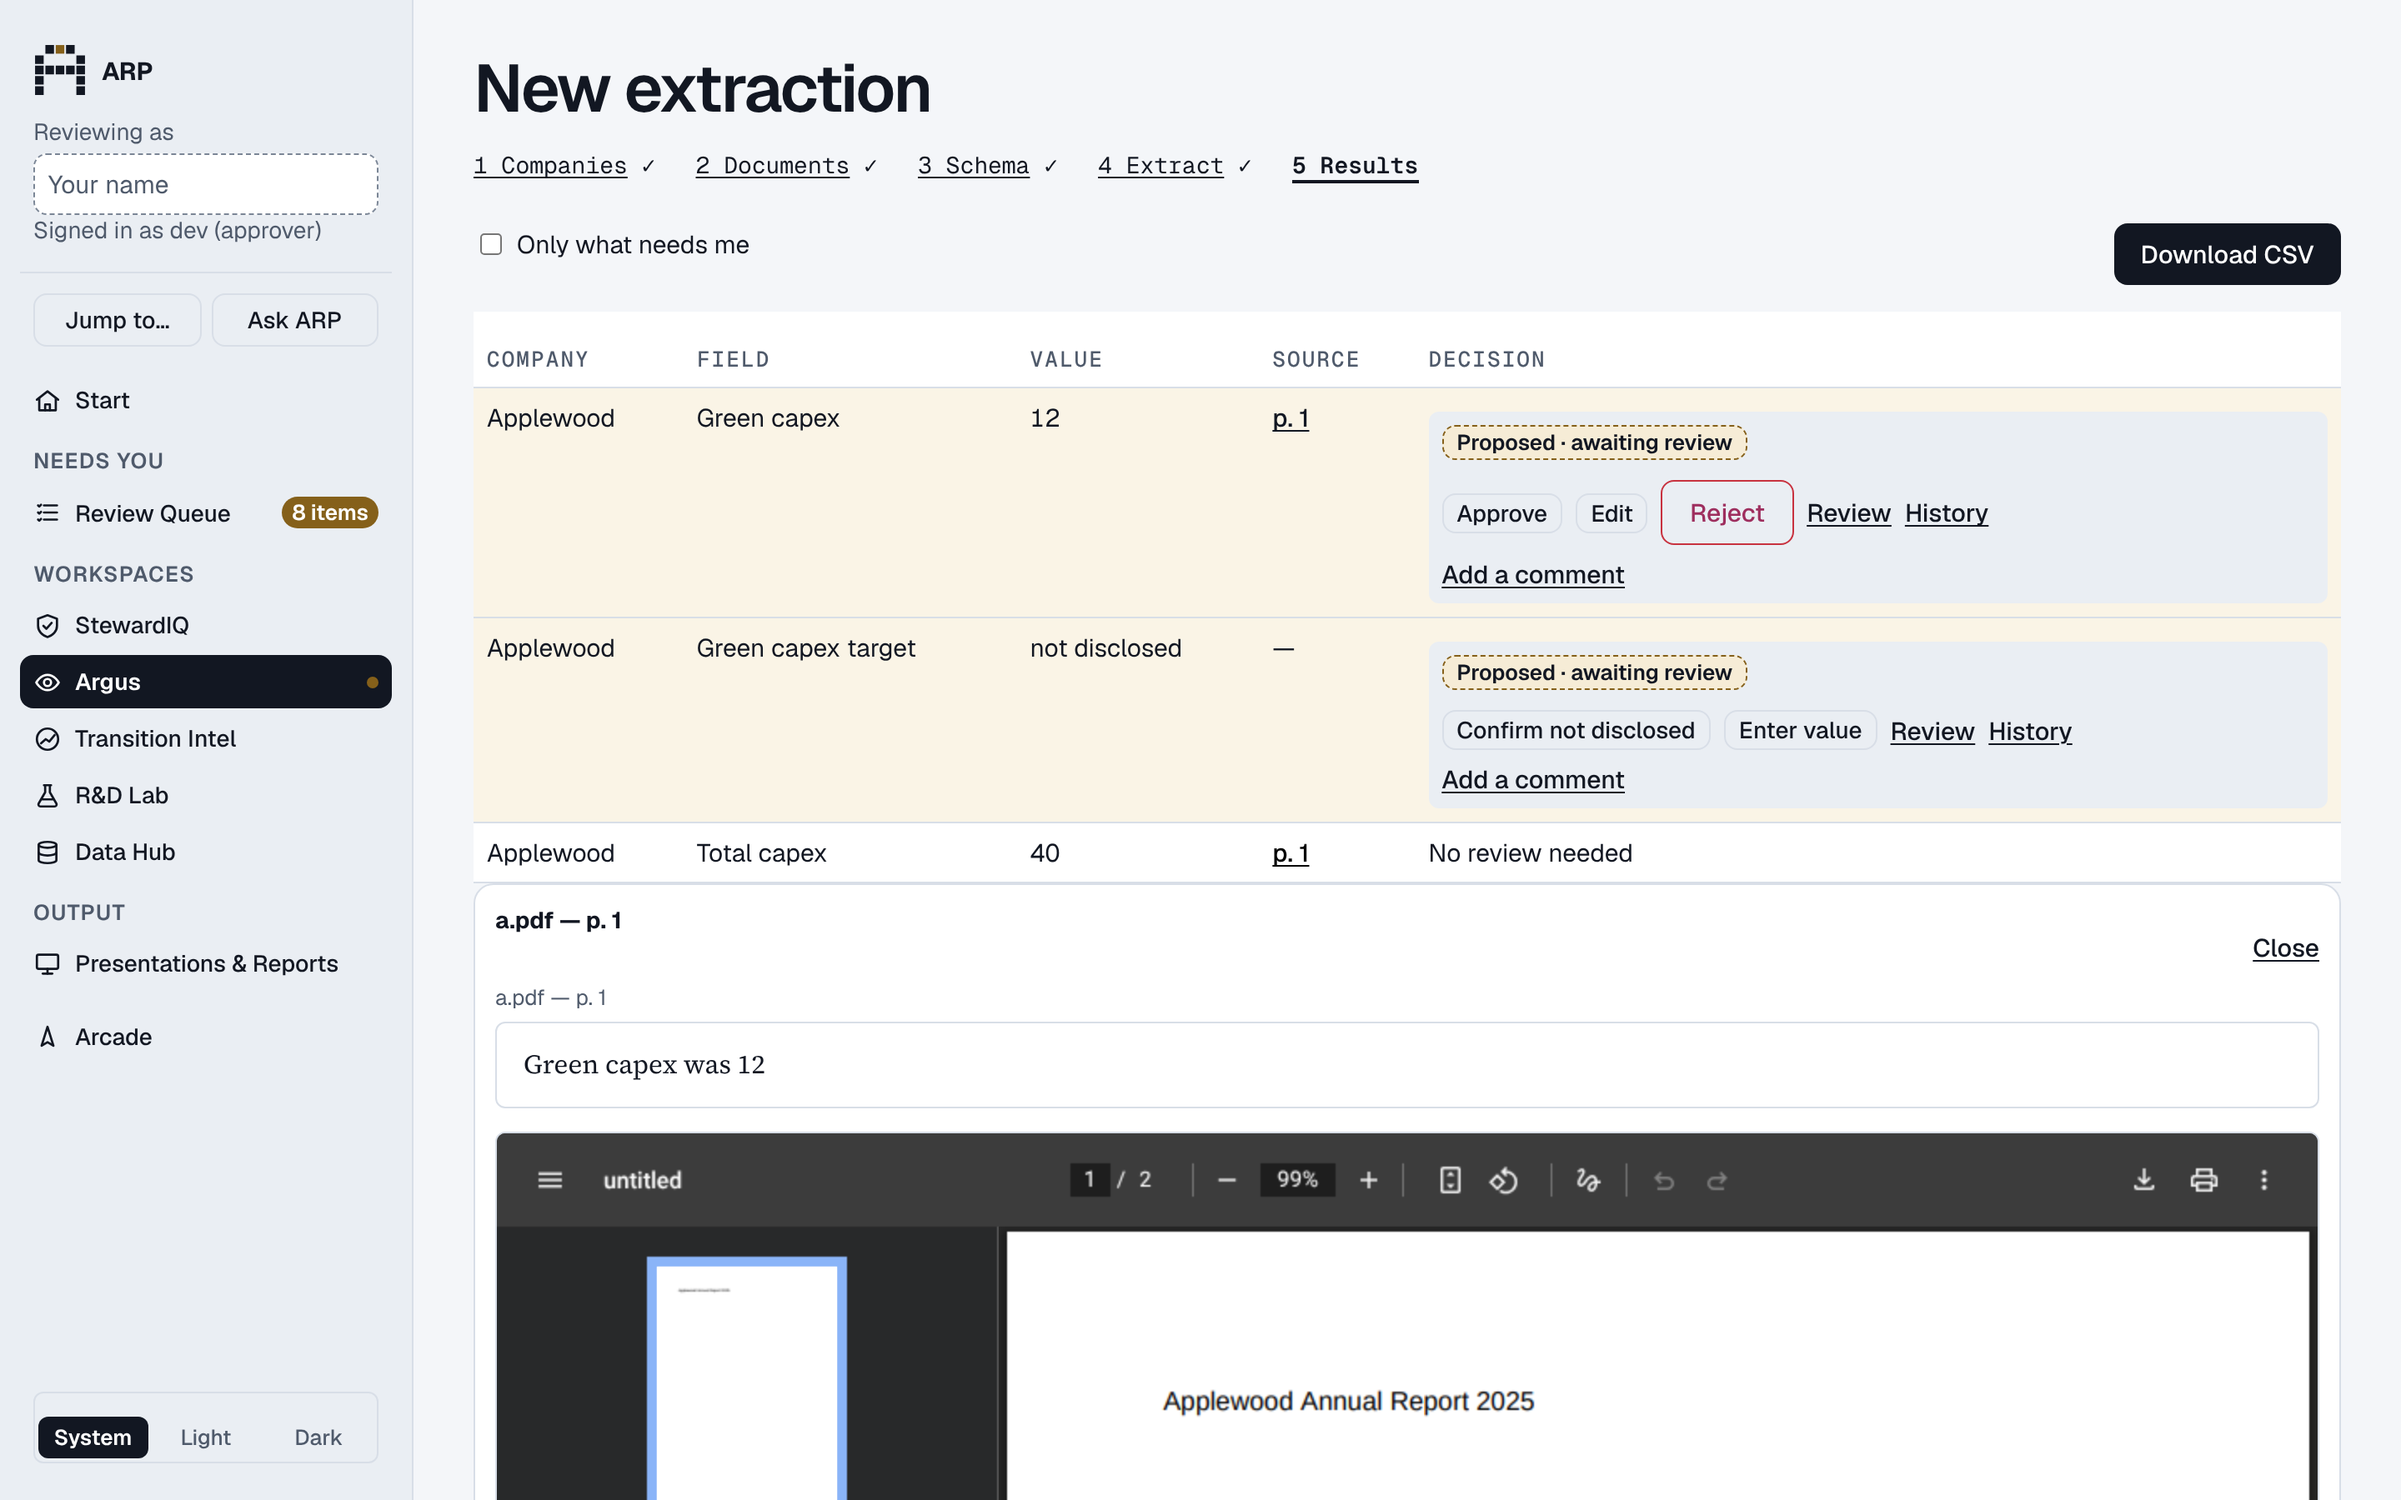
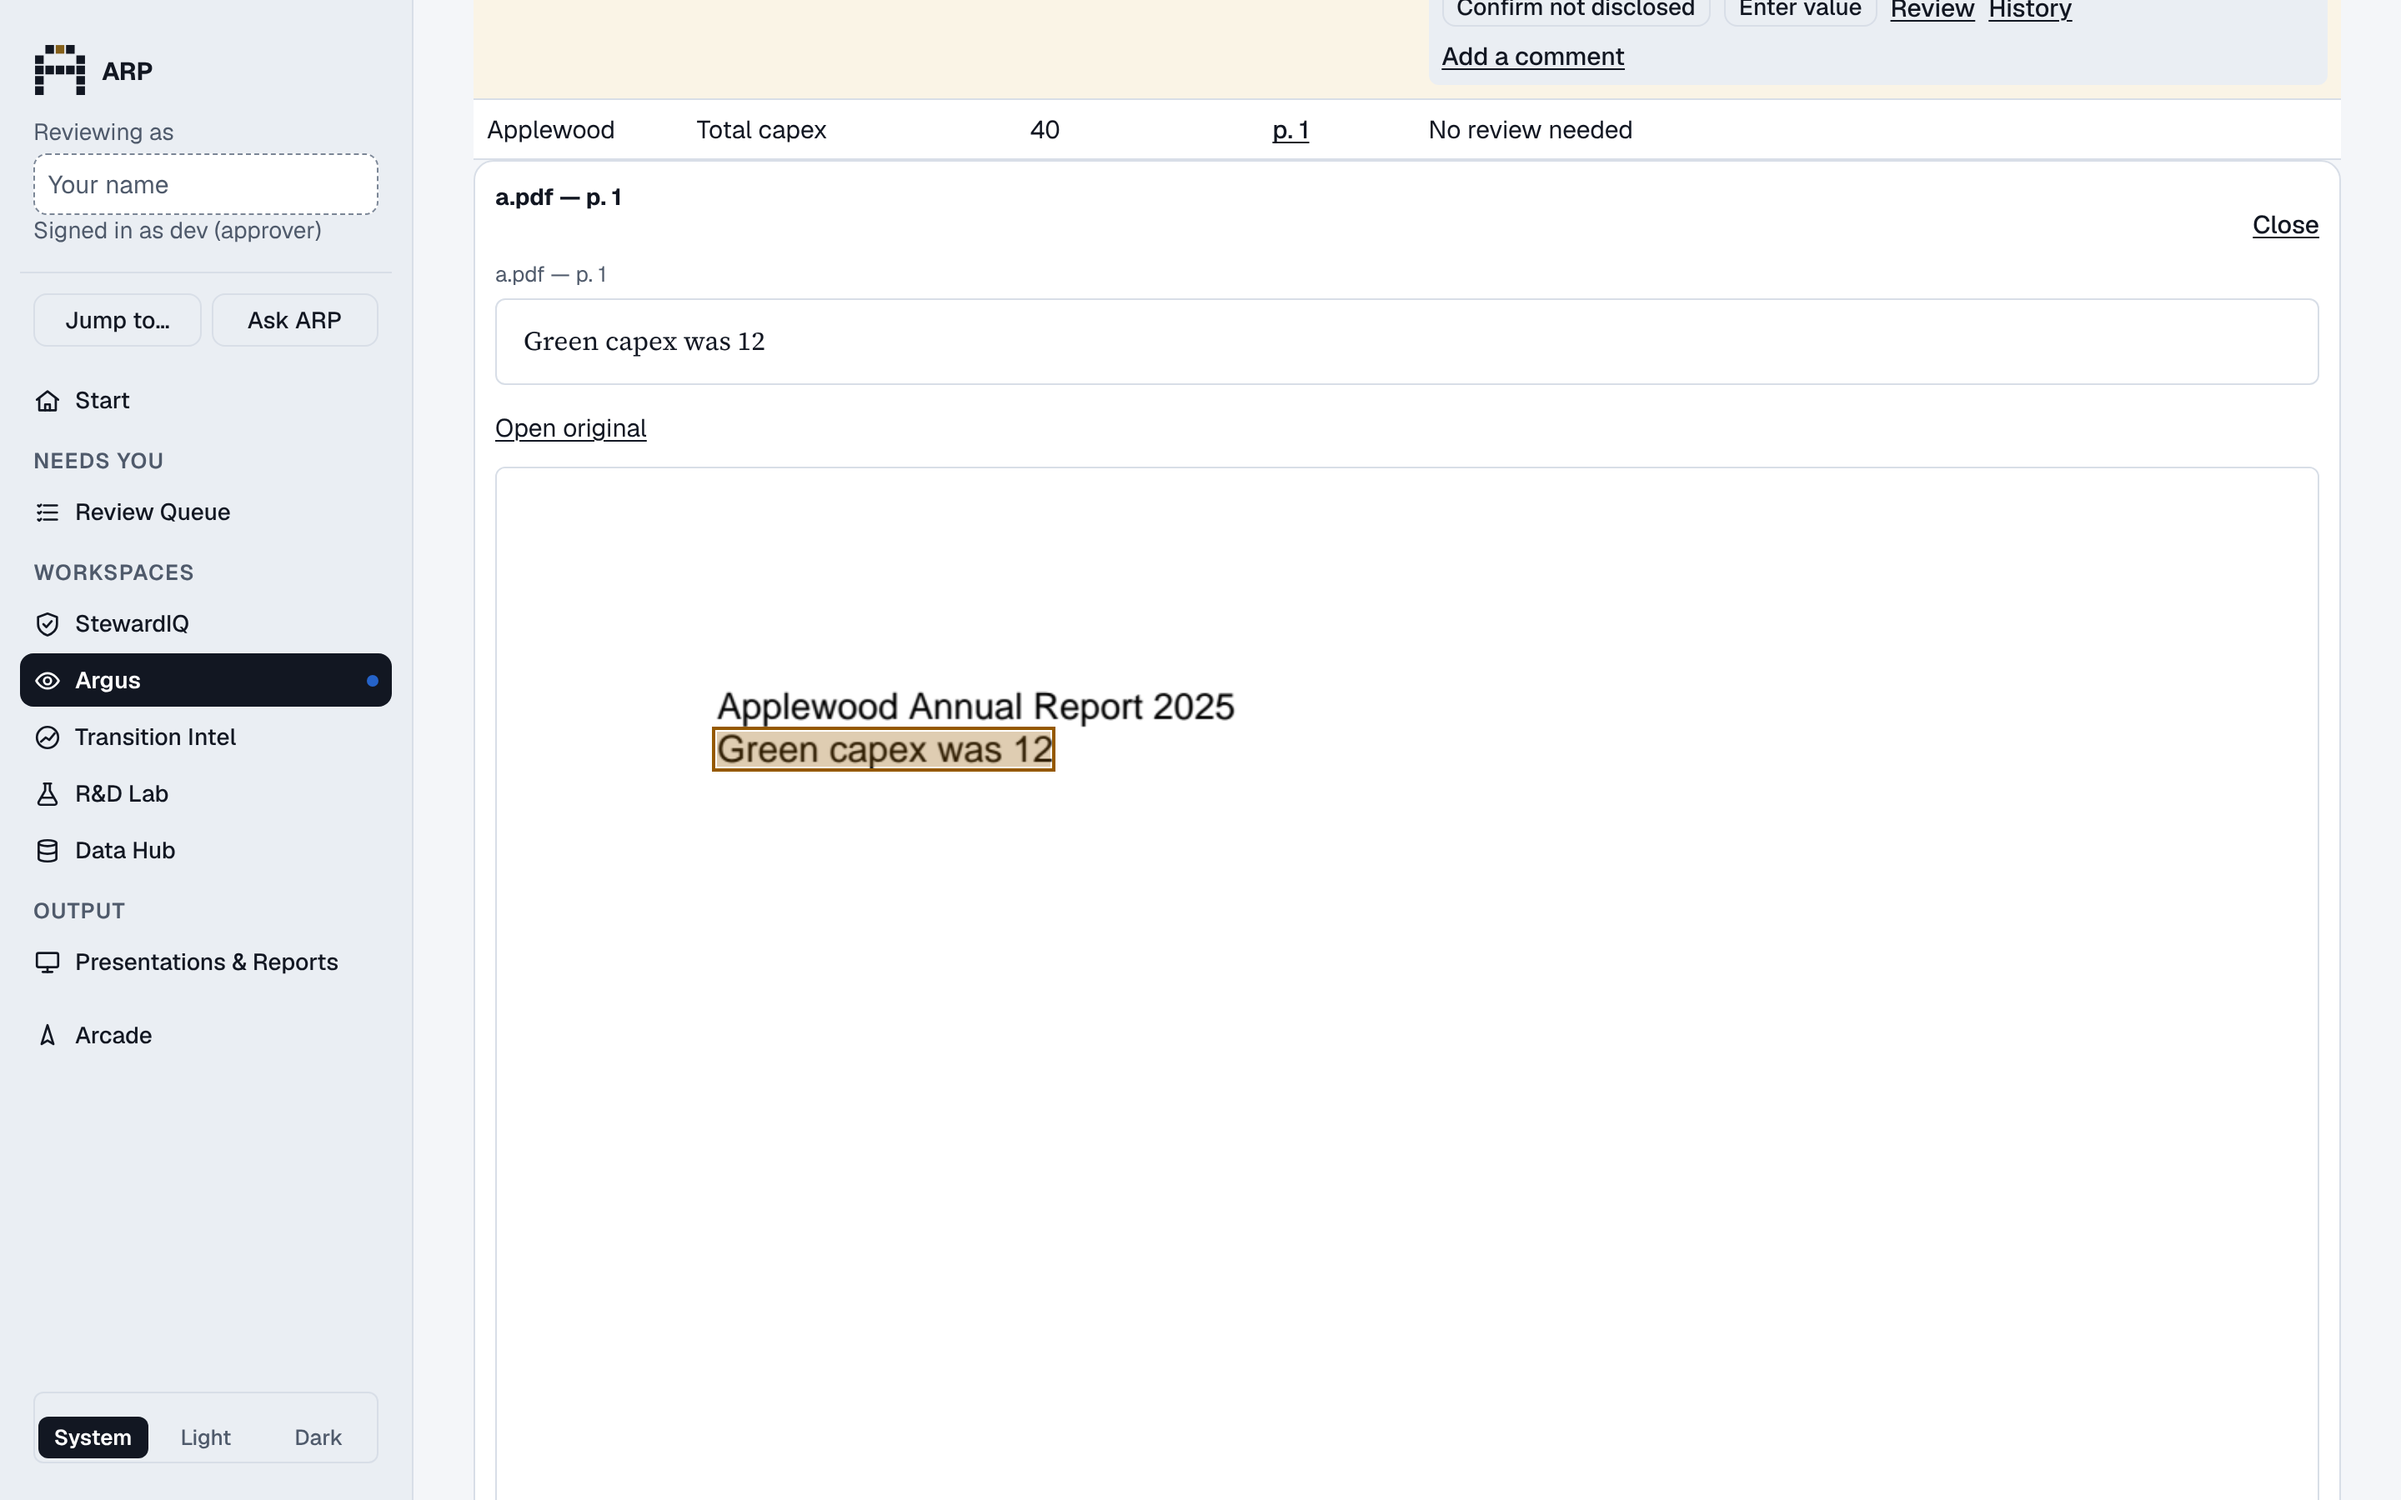
fix(argus): Retry shows Waiting at once; the cited page shows the quote boxed
Retry records the company it retries, so step 4 reads it Waiting, not
Failed, from the click on (AC-38). Step 5 opens a PDF citation as the page
image with the quote boxed (SourcePanel's PageView, page boxes endpoint), not
the plain file (AC-43). E2E: Retry on a seeded failed company through the UI
leaves Failed, and a retry that fails again ends Failed with its error, never
Stopped; the source panel shows a highlight box. Evaluator AC-38 and AC-43 on
PR #389.

Claude-Session: https://claude.ai/code/session_01GEWuyFuL93mq5Ajv53FpfH

diff --git a/frontend/src/components/SourcePanel.tsx b/frontend/src/components/SourcePanel.tsx
@@ -4,6 +4,8 @@ import { excerptView, highlightParts } from "../lib/sourceText";
 import type { PageBox } from "../types";
 import { FileFrame, FileImg, FileLink } from "./FileLink";
 
+const isPdfUrl = (src: string) => !!src && decodeURIComponent(src.split("#")[0]).toLowerCase().endsWith(".pdf/raw");
+
 /** A page of a document's stored text, with the cited span when there is one. */
 export interface SourceText {
   run_id: string;
@@ -24,6 +26,8 @@ export interface ActiveSource {
   quote?: string;
   /** Review workbench: show the stored text instead of the original file. */
   text?: SourceText;
+  /** A PDF's cited page: shown as the page image with `quote` boxed on it, not the plain file. */
+  page?: number | null;
   onSelectQuote?: (c: { doc_id: string; doc_type: string; quote: string }) => void;
 }
 
@@ -63,6 +67,15 @@ export function SourcePanel({ source, onClose }: Props) {
           source={source}
           initial={source.text}
         />
+      ) : source.page && source.quote && isPdfUrl(source.src) ? (
+        <>
+          <div className="toolbar">
+            <FileLink url={source.src} name={source.title} open className="link-button">
+              Open original
+            </FileLink>
+          </div>
+          <PageView rawUrl={source.src.split("#")[0]} page={source.page} mark={source.quote} />
+        </>
       ) : (
         <FileFrame className="source-panel-iframe" url={source.src} title={source.title} />
       )}
@@ -74,7 +87,7 @@ export function SourcePanel({ source, onClose }: Props) {
 function TextView({ source, initial }: { source: ActiveSource; initial: SourceText }) {
   const [text, setText] = useState(initial);
   const [error, setError] = useState("");
-  const isPdf = !!source.src && decodeURIComponent(source.src.split("#")[0]).toLowerCase().endsWith(".pdf/raw");
+  const isPdf = isPdfUrl(source.src);
   const [view, setView] = useState<"page" | "text">(isPdf ? "page" : "text");
   const markRef = useRef<HTMLElement>(null);
   const preRef = useRef<HTMLPreElement>(null);

diff --git a/frontend/src/pages/ArgusResults.tsx b/frontend/src/pages/ArgusResults.tsx
@@ -56,6 +56,7 @@ export function ArgusResults({ flow }: { flow: Flow }) {
       title: `${c.source_filename}${c.page ? ` — p. ${c.page}` : ""}`,
       src: `${api.documentRawUrl(c.company_id!, c.doc_type, c.source_filename!)}${c.page ? `#page=${c.page}` : ""}`,
       quote: c.quote,
+      page: c.page, // the cited page as an image, the quote boxed on it
     });
   };
 

diff --git a/backend/tests/e2e/test_argus_steps45.py b/backend/tests/e2e/test_argus_steps45.py
@@ -6,6 +6,7 @@ import json
 import os
 import re
 import shutil
+import time
 from datetime import UTC, datetime, timedelta
 from uuid import uuid4
 
@@ -13,7 +14,7 @@ import pytest
 
 from arp.argus.flows import FlowStore
 from arp.config import Settings
-from arp.schemas.common import JobStatus, RunManifest
+from arp.schemas.common import CompanyRef, JobStatus, RunManifest
 from arp.storage.run_store import RunStore
 from tests.pdf_fixtures import FILLER, make_pdf
 
@@ -40,11 +41,12 @@ def _field(fid, name, value, route, *, state="found", page=None):
 def seeded(tmp_path):
     settings = Settings()
     store = RunStore(DSN, settings.runs_dir)
-    run_id = f"extraction_e2e{TAG}"
+    run_id = f"extraction_e2e{uuid4().hex[:8]}"  # one run per test: Retry changes it
     store.save_manifest(RunManifest(run_id=run_id, run_type="extraction", status=JobStatus.PARTIALLY_COMPLETED, company_count=3,
                                     completed_count=1, failed_count=1, estimated_cost_usd=0.42, created_at=(datetime.now(UTC) - timedelta(minutes=10)).isoformat(),
                                     params={"schema_name": "Green capex", "schema_version": "sch_g:v1"}))
     names = {A: "Applewood", B: "Microwood", C: "Sapwood"}
+    store.save_companies(run_id, [CompanyRef(company_id=k, name=v) for k, v in names.items()])  # resumable, as a real run is
     (store.run_dir(run_id) / "start_request.json").write_text(json.dumps(
         {"profile": "custom", "companies": [{"company_id": k, "name": v} for k, v in names.items()]}))
     issuer = f"k{TAG}"
@@ -61,7 +63,7 @@ def seeded(tmp_path):
     store.append_error(run_id, {"key": B, "error": "No text could be read from scan.pdf", "document_problem": True})
     docs = settings.documents_dir / A / "10-K"
     docs.mkdir(parents=True, exist_ok=True)
-    make_pdf(docs / "a.pdf", ["Applewood Annual Report 2025", "Green capex was 12", FILLER], n_pages=2)
+    make_pdf(docs / "a.pdf", ["Applewood Annual Report 2025\nGreen capex was 12", FILLER], n_pages=2)  # the quote on page 1
     flows = FlowStore(settings.runs_dir / "_flows")
     from arp.api.auth import Principal
 
@@ -115,7 +117,33 @@ def test_step_5_lists_values_with_what_needs_you_first(page, seeded):
     page.get_by_label("Only what needs me").check()
     assert rows.count() == 2  # AC-41
     page.get_by_label("Only what needs me").uncheck()
-    third.get_by_role("button", name="p. 1").click()  # AC-43
-    page.locator(".source-panel").first.wait_for()
+    third.get_by_role("button", name="p. 1").click()  # AC-43: the cited page, the quote boxed on it
+    page.locator(".source-panel .source-page-img").wait_for()
+    page.locator(".source-panel .source-page-box").first.wait_for()
     assert page.get_by_role("link", name="Download CSV").count() == 1
     assert page.console_errors == []
+
+
+def test_retry_takes_a_failed_company_out_of_failed_and_never_strands_it(page, seeded):
+    page.goto(f"{URL}/#/argus/{seeded}/4")
+    row = page.get_by_role("table", name="Companies in this run").locator("tbody tr").filter(has_text="Microwood")
+    with page.expect_response(lambda r: r.url.endswith(f"/companies/{B}/retry")) as info:
+        row.get_by_role("button", name="Retry").click()
+    assert info.value.status == 200, info.value.text()  # not "503: no running event loop"
+    statuses = {c["company_id"]: c["status"] for c in info.value.json()["companies"]}
+    assert statuses[B] == "Waiting"  # AC-38: it leaves Failed at once
+    api = page.request
+    end = time.monotonic() + 30
+    while _progress(api, seeded)["status"] in ("pending", "running"):
+        assert time.monotonic() < end, "the retry never finished"
+        time.sleep(0.5)
+    # this stack's resume has no model (CI has no key) or no schema for the seeded run: the company fails again, its error back
+    after = {c["company_id"]: c for c in _progress(api, seeded)["companies"]}[B]
+    assert after["status"] == "Failed" and after["reason"], after  # never stranded as Stopped
+    assert page.console_errors == []
+
+
+def _progress(api, fid):
+    r = api.get(f"{API}/api/argus/flows/{fid}/progress")
+    assert r.ok, r.text()
+    return r.json()

diff --git a/backend/arp/api/routers/argus.py b/backend/arp/api/routers/argus.py
@@ -335,8 +335,9 @@ def flow_progress(
     for row in extraction.run_companies(run_store, m.run_id, run_store.read_results(m.run_id), error_rows):
         cid = row["company_id"]
         steps = step_counts(run_store, m.run_id, cid)[0]["counts"] if active else {}  # the tally only matters while it runs
-        label, percent = company_status(row["status"], status, steps)
-        error = errors.get(cid) if row["status"] in ("failed", "review") else None  # a review stop says why too
+        raw = "waiting" if active and row["status"] == "failed" and cid in m.params.get("retrying", []) else row["status"]
+        label, percent = company_status(raw, status, steps)
+        error = errors.get(cid) if raw in ("failed", "review") else None  # a review stop says why too
         companies.append(CompanyProgress(
             company_id=cid, name=row["name"], status=label, percent=percent, needs_you=open_items.get(cid, 0),
             reason=error.get("error") if error else None,
@@ -384,6 +385,7 @@ async def retry_company(
         if current.status in ("pending", "running"):
             raise HTTPException(409, "This company is already being retried.")
         previous, current.status = current.status, JobStatus.PENDING
+        current.params = {**current.params, "retrying": [company_id]}  # step 4 shows it Waiting, not Failed, from now on
         run_store.save_manifest(current)
 
     async def job() -> None:  # runs under the run's lease (LocalJobLauncher)

diff --git a/backend/tests/test_argus_retry.py b/backend/tests/test_argus_retry.py
@@ -114,6 +114,7 @@ def test_retry_launches_a_job_that_reruns_one_company_on_the_current_kept_files(
     r = client.post(f"/api/argus/flows/{flow}/companies/aapl/retry")  # the real LocalJobLauncher: needs a running loop
     assert r.status_code == 200, r.text
     assert r.json()["status"] == "pending"  # step 4 keeps polling until the job has run
+    assert {c["company_id"]: c["status"] for c in r.json()["companies"]}["aapl"] == "Waiting"  # AC-38: leaves Failed at once
     _wait(lambda: resumed["calls"])
     assert resumed["calls"] == [["aapl"]]
     assert resumed["errors"] == []  # cleared once the job held the run (AC-38: the row leaves Failed)
